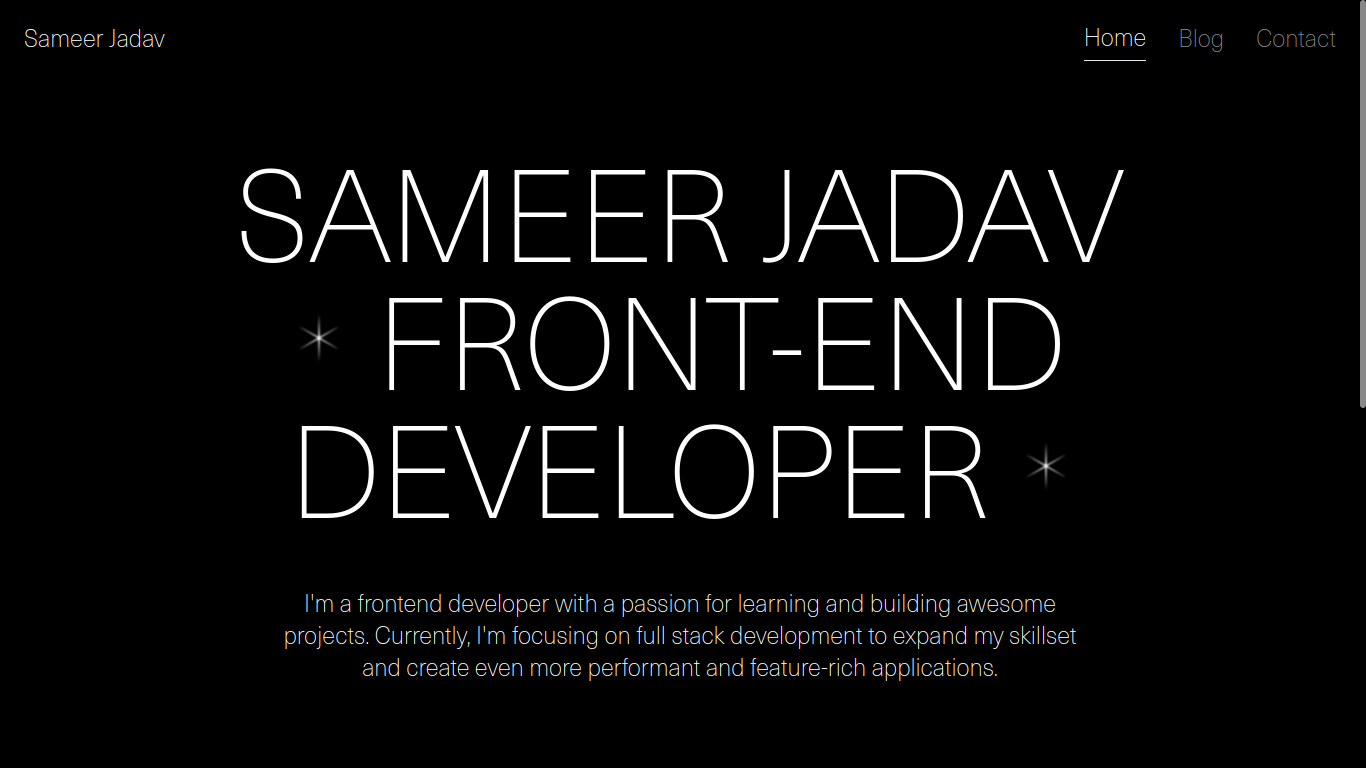
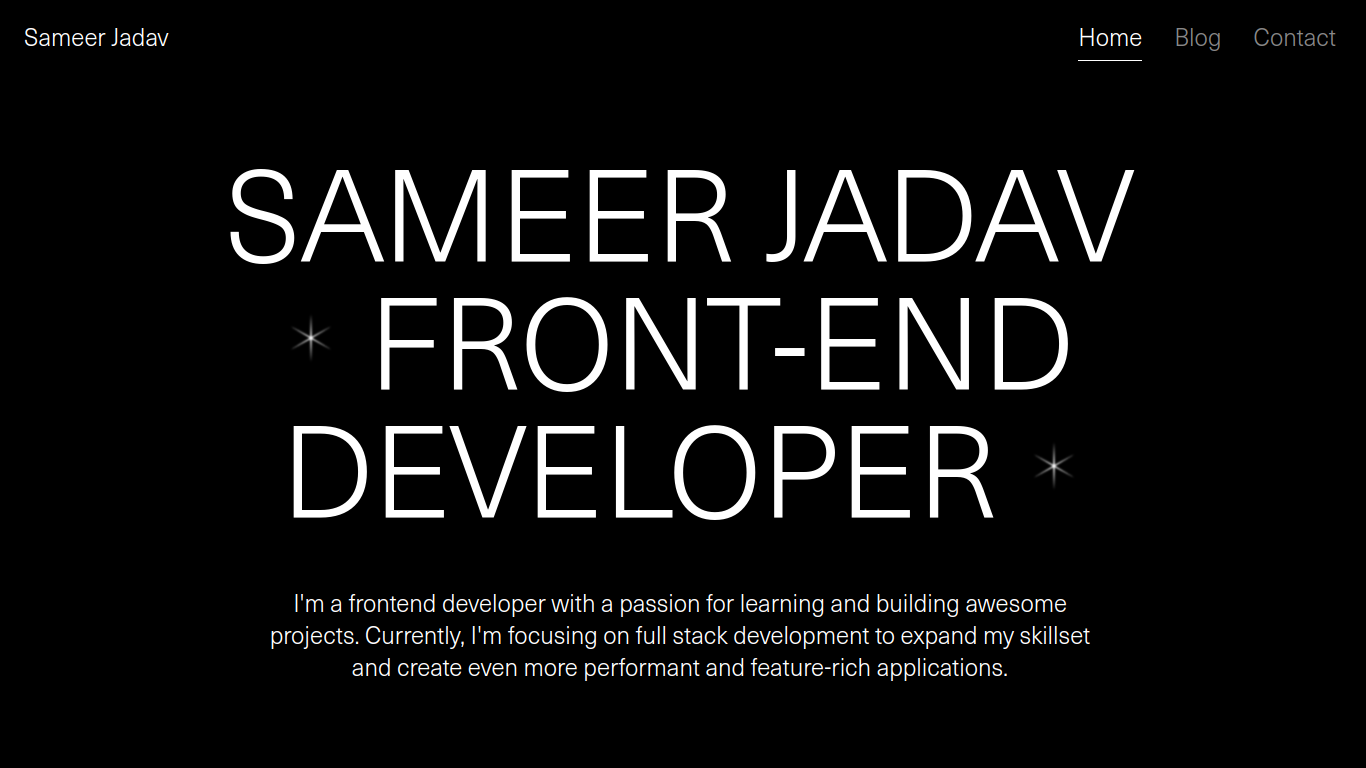
Footer and refactoring

diff --git a/src/app/page.tsx b/src/app/page.tsx
@@ -5,12 +5,10 @@ import { ArrowIcon, GitHubIcon, Star2 } from "~/components/Icons";
 export default function Home() {
   return (
     <main className="p-4 md:p-6">
-      <section className="mobile-min-height lg:desktop-min-height flex flex-col justify-center">
-        <div className="mx-auto my-16 max-w-max lg:my-10">
-          <h1 className="w-full text-center text-5xl uppercase md:text-8xl lg:text-9xl">
-            sameer jadav
-          </h1>
-          <div className="flex w-full flex-col items-center text-center text-5xl uppercase md:text-8xl lg:text-9xl">
+      <section className="mobile-min-height lg:desktop-min-height flex flex-col justify-center text-5xl md:text-8xl lg:text-9xl">
+        <div className="mx-auto mb-20 max-w-max uppercase lg:my-10">
+          <h1 className="w-full text-center">sameer jadav</h1>
+          <div className="flex w-full flex-col items-center text-center">
             <div className="flex items-center gap-4 lg:gap-8">
               <div className="-mt-3 md:-mt-6 lg:-mt-10">
                 <Star2 />
@@ -26,7 +24,7 @@ export default function Home() {
           </div>
         </div>
 
-        <p className="mx-auto mb-16 text-center text-xl lg:hidden">
+        <p className="mx-auto mb-20 text-center text-xl lg:hidden">
           From India, passionated about creating memorable projects
         </p>
 

diff --git a/src/components/Footer.tsx b/src/components/Footer.tsx
@@ -1,0 +1,34 @@
+export default function Footer() {
+  return (
+    <footer className="mx-auto mb-8 flex w-full flex-col items-center justify-center p-4 text-lg md:flex-row md:justify-between md:p-6 md:text-xl">
+      <p>Designed & Developed by Sameer Jadav</p>
+      {/* <div className="hidden border px-24 md:block" /> */}
+      <div className="flex items-center gap-4">
+        <a
+          href="https://twitter.com/SameerJadav_"
+          target="_blank"
+          rel="noopener noreferrer"
+          className="border-b border-black transition-all hover:border-white"
+        >
+          Twitter
+        </a>
+        <a
+          href="https://github.com/SameerJadav"
+          target="_blank"
+          rel="noopener noreferrer"
+          className="border-b border-black transition-all hover:border-white"
+        >
+          GitHub
+        </a>
+        <a
+          href="https://www.linkedin.com/in/sameer-jadav"
+          target="_blank"
+          rel="noopener noreferrer"
+          className="border-b border-black transition-all hover:border-white"
+        >
+          Linkedin
+        </a>
+      </div>
+    </footer>
+  );
+}

diff --git a/src/components/Header.tsx b/src/components/Header.tsx
@@ -24,7 +24,7 @@ export default function Header() {
   }
   return (
     <header className="flex items-center justify-between px-4 py-6 text-lg md:p-6 md:text-2xl">
-      <Link href="/" className="pb-1 text-lg md:text-2xl">
+      <Link href="/" className="border-b border-black pb-1">
         Sameer Jadav
       </Link>
       <nav className="flex items-center gap-4 md:gap-6 lg:gap-8">
@@ -35,10 +35,13 @@ export default function Header() {
             <Link
               key={path}
               href={path}
-              className={clsx("pb-1 capitalize transition-all", {
-                "text-myGray hover:text-white": !isActive,
-                "border-b": isActive,
-              })}
+              className={clsx(
+                "border-b border-black pb-1 capitalize transition-all",
+                {
+                  "text-myGray hover:border-white hover:text-white": !isActive,
+                  "border-white": isActive,
+                }
+              )}
             >
               {name}
             </Link>

diff --git a/src/app/layout.tsx b/src/app/layout.tsx
@@ -3,6 +3,7 @@ import "./globals.css";
 import localFont from "next/font/local";
 import clsx from "clsx";
 import Header from "~/components/Header";
+import Footer from "~/components/Footer";
 
 const neue = localFont({
   src: "../../public/fonts/NeueHaasUnica-ExtraLight.woff2",
@@ -26,6 +27,7 @@ export default function RootLayout({
       <body className="antialiased">
         <Header />
         {children}
+        <Footer />
         <Analytics />
       </body>
     </html>
